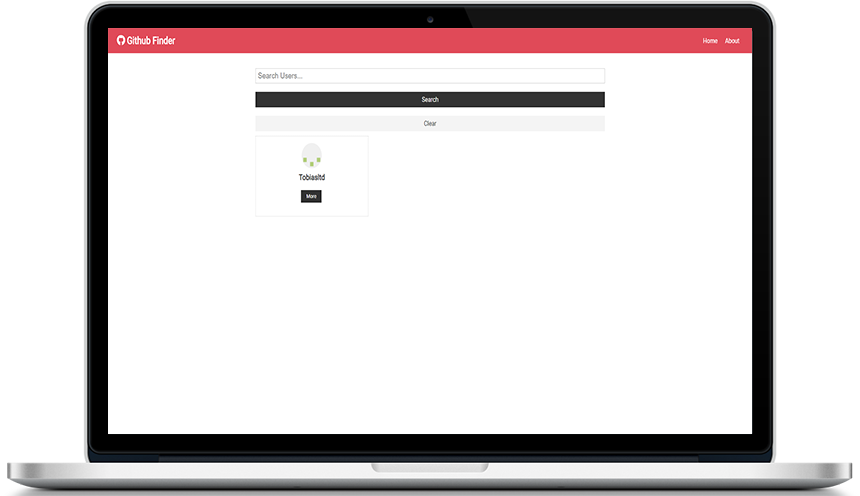
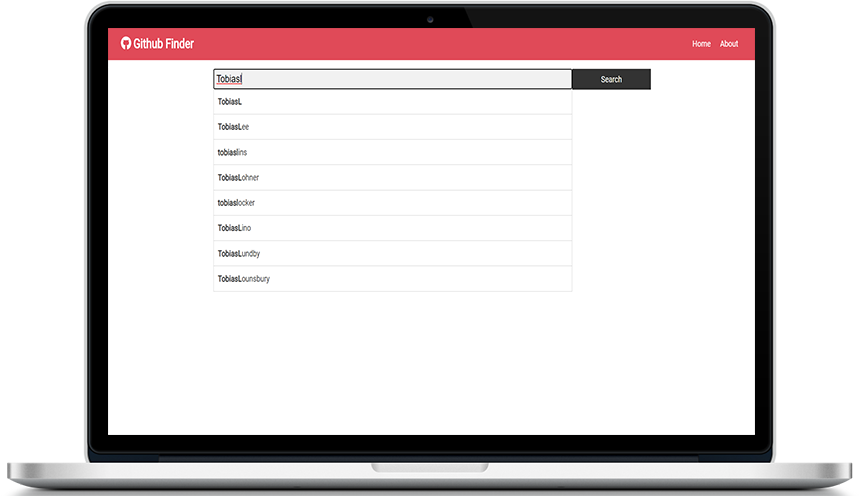
added rxjs to githubfinder

diff --git a/src/components/selectedworks/GitHubFinder.js b/src/components/selectedworks/GitHubFinder.js
@@ -51,13 +51,19 @@ const GitHubFinder = () => {
               <Subtitle>Overview</Subtitle>
               <p>
                 Making use of the GitHub API, this React app fetches GitHub
-                profiles based on user input. The most basic of apps.
+                profiles based on user input.
+                <br />
+                <br />
+                RxJS is used to autocomplete the search input in the searchbar.
+                Filter, debouncetime, mergemap and distinctUntillChanged are
+                used with the observable.
               </p>
               <Tech>
                 <Subtitle>Technologies</Subtitle>
                 <p>
                   <ul>
                     <li>React</li>
+                    <li>RxJS</li>
                   </ul>
                 </p>
               </Tech>

diff --git a/src/components/selectedworks/Overview.js b/src/components/selectedworks/Overview.js
@@ -4,7 +4,7 @@ import styled from "styled-components";
 import fryslingpic from "../images/fryslingpic1.png";
 import mejsn from "../images/mejsn.png";
 import mern from "../images/mernstack.png";
-import reactlogo from "../images/react.png";
+import reactrxjs from "../images/reactrxjs.png";
 import mernredux from "../images/mernredux.png";
 import gympic from "../images/gympic1.png";
 import contactpic from "../images/contactpic2.png";
@@ -89,7 +89,7 @@ const Overview = () => {
             <PortfolioItem>
               {" "}
               <img src={githubpic} alt="" />
-              <img className="singlelogo" src={reactlogo} alt="" />
+              <img src={reactrxjs} alt="" />
               <SeeProject>
                 <Link to="githubfinder" smooth={true} duration={1000}>
                   See Project
